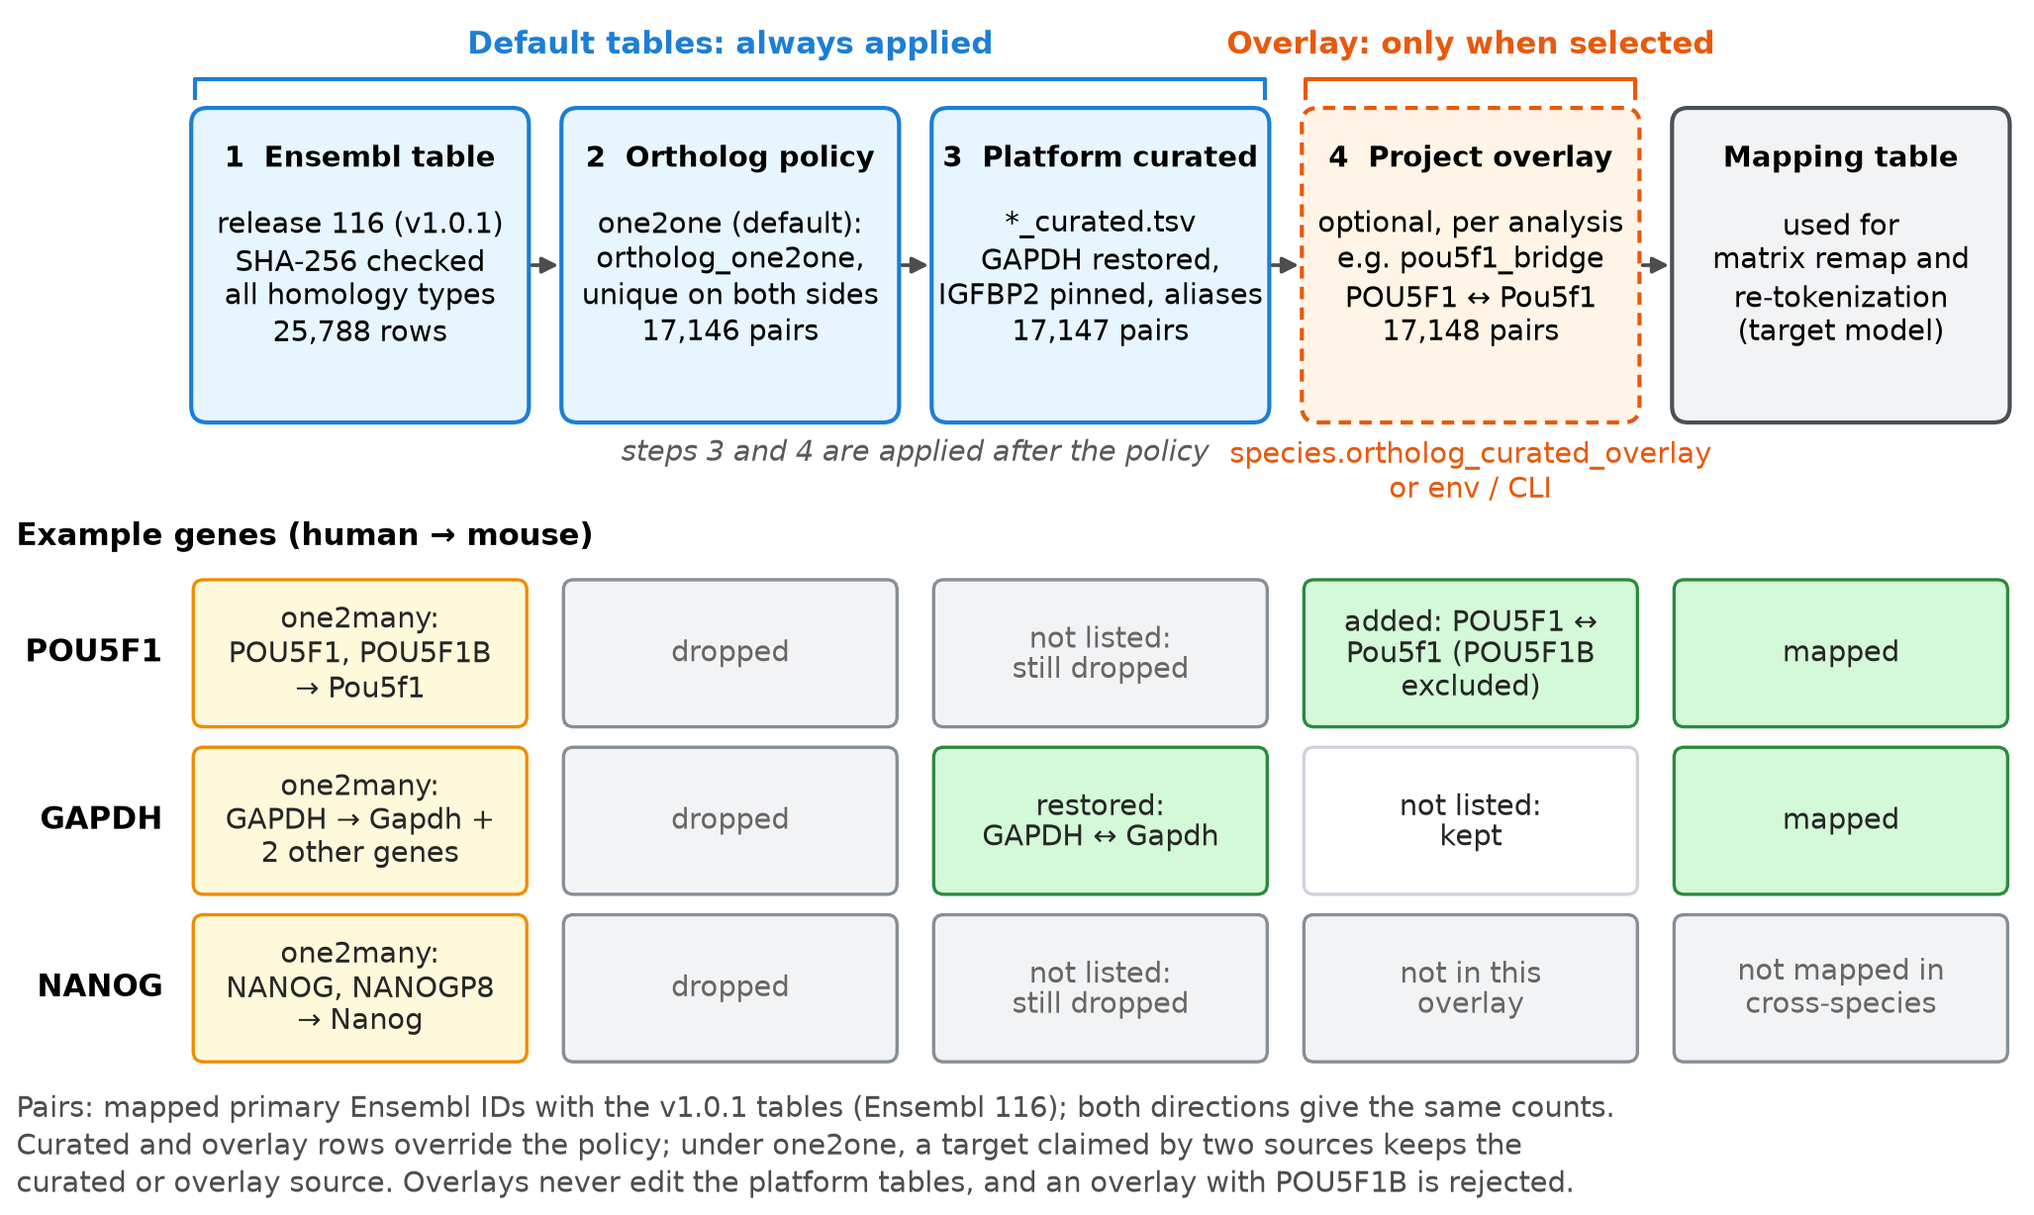
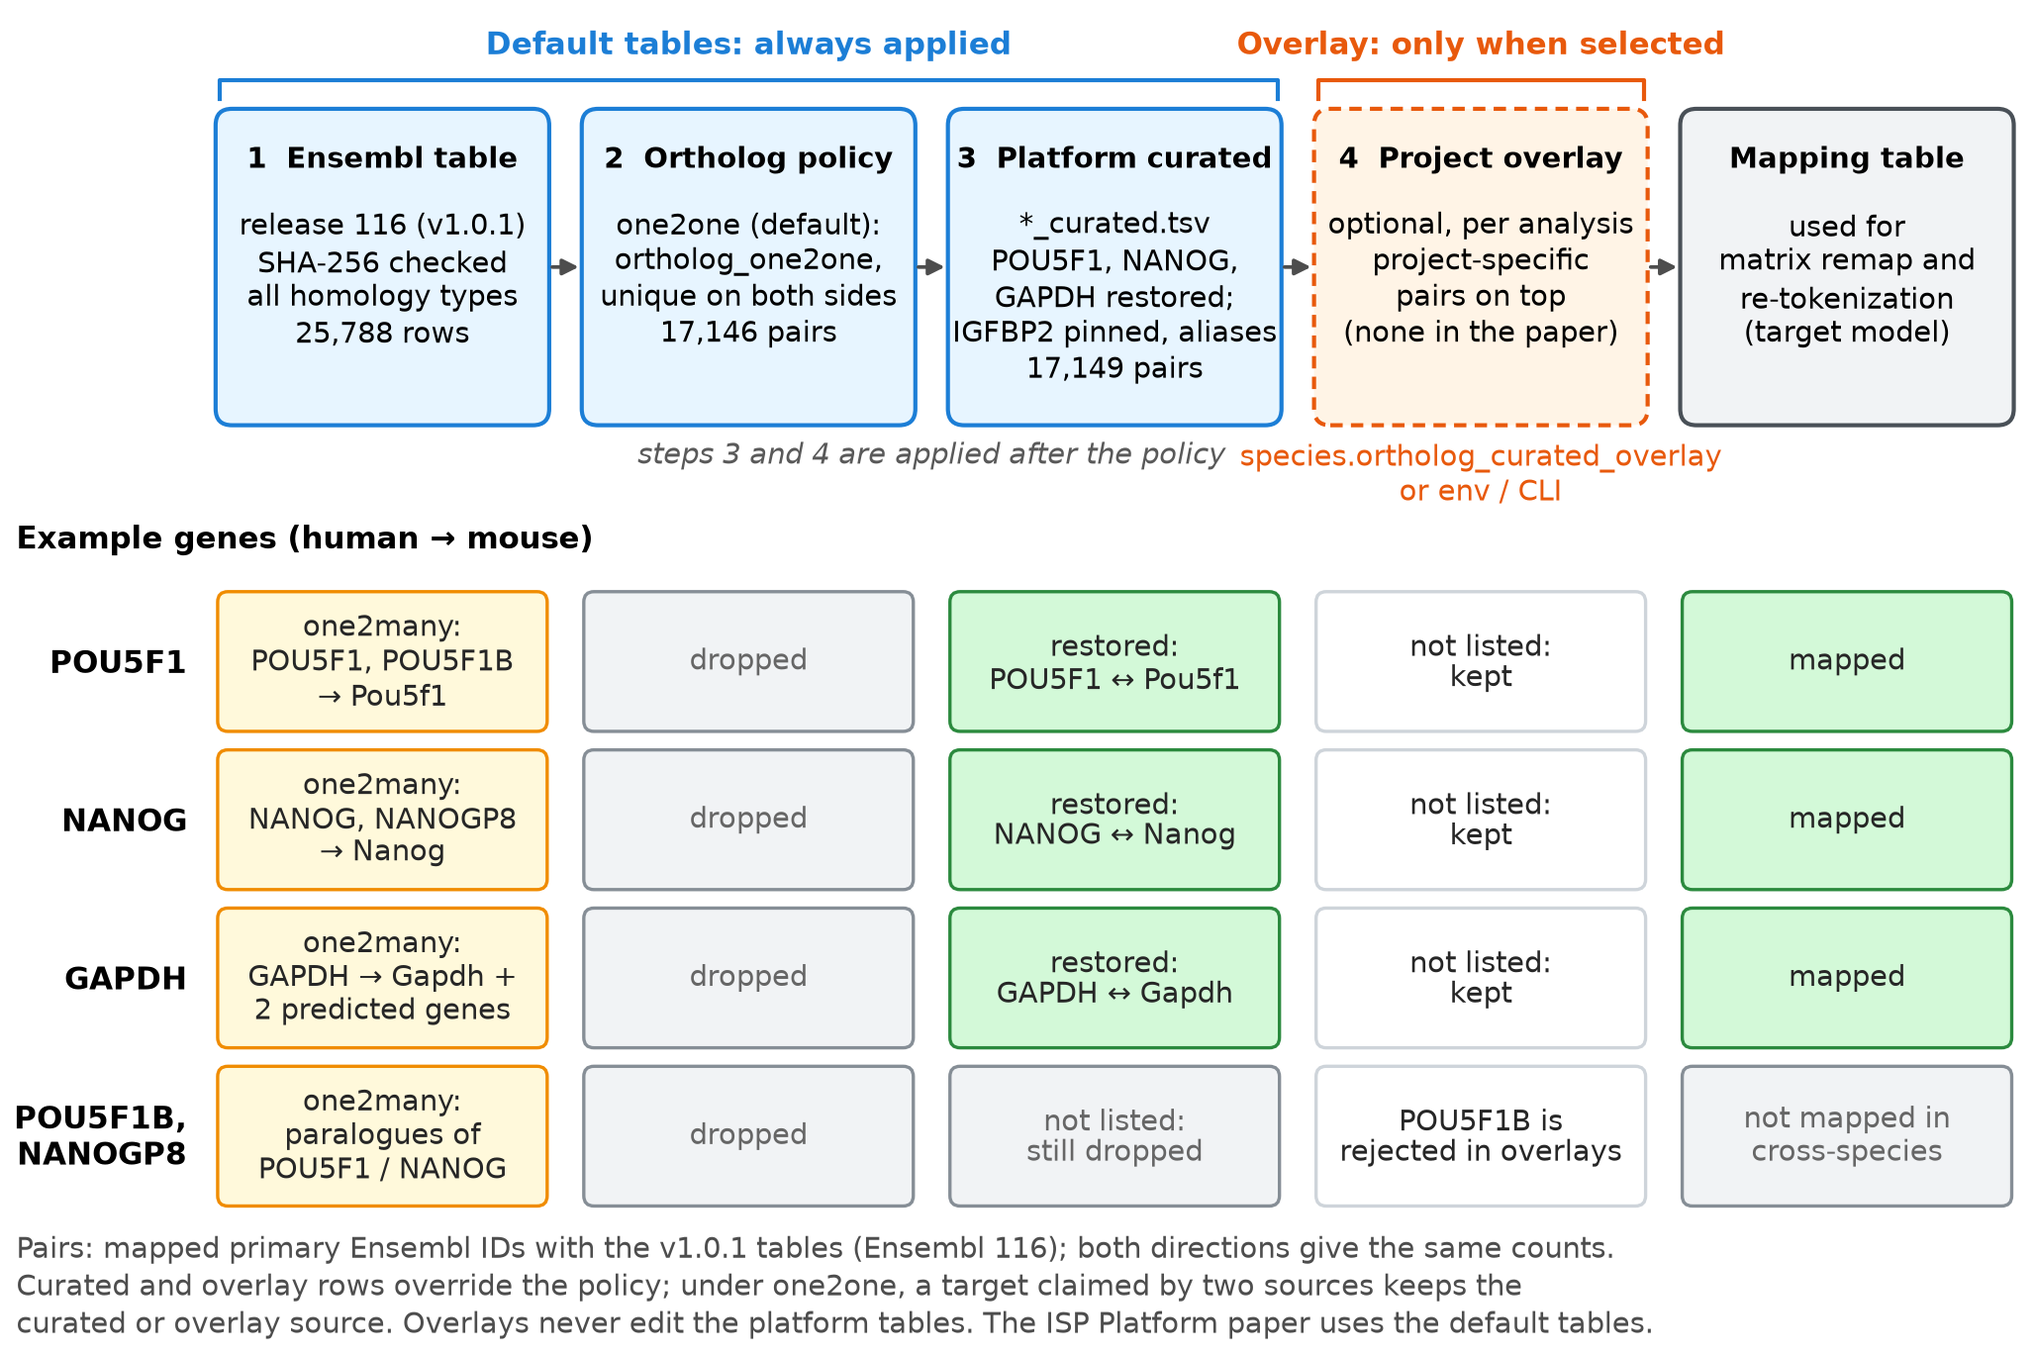
Curated ortholog tables restore POU5F1 and NANOG; drop the example overlay

Changed region(s): [[0.0, 0.4332, 0.9966, 0.9902], [0.0, 0.0, 0.9966, 0.4023]]

diff --git a/tests/test_ortholog_curated_overlay.py b/tests/test_ortholog_curated_overlay.py
@@ -60,8 +60,30 @@ gc = _load_gene_converter()
 POU5F1 = "ENSG00000204531"
 POU5F1B = "ENSG00000212993"
 POU5F1_MOUSE = "ENSMUSG00000024406"
+NANOG = "ENSG00000111704"
+NANOGP8 = "ENSG00000255192"
+NANOG_MOUSE = "ENSMUSG00000012396"
 ORTHOLOGS = ROOT / "core" / "geneformer" / "dicts" / "orthologs"
-EXAMPLE_POU5F1_BRIDGE = ROOT / "examples" / "ortholog_overlays" / "pou5f1_bridge"
+# The platform curated tables restore POU5F1 and NANOG; the overlay tests need a gene they drop.
+CURATED_PLURIPOTENCY_SOURCES = {
+    POU5F1, "POU5F1", NANOG, "NANOG",
+    POU5F1_MOUSE, "Pou5f1", NANOG_MOUSE, "Nanog",
+}
+
+
+def orthologs_without_curated_pluripotency(dest: Path) -> Path:
+    """Platform ortholog dir with the POU5F1 / NANOG rows removed from ``*_curated.tsv``."""
+    for src in ORTHOLOGS.iterdir():
+        if not src.is_file():
+            continue
+        out = dest / src.name
+        if src.name.endswith("_curated.tsv"):
+            lines = src.read_text(encoding="utf-8").splitlines(keepends=True)
+            kept = [ln for ln in lines if ln.split("\t", 1)[0] not in CURATED_PLURIPOTENCY_SOURCES]
+            out.write_text("".join(kept), encoding="utf-8")
+        else:
+            out.symlink_to(src)
+    return dest
 
 
 @unittest.skipUnless(
@@ -72,8 +94,13 @@ class TestCuratedOverlay(unittest.TestCase):
     def setUp(self):
         gc._TABLE_CACHE.clear()
         self._prev_env = os.environ.pop("GENEFORMER_ORTHOLOG_CURATED_OVERLAY", None)
+        self._orthologs_tmp = tempfile.TemporaryDirectory()
+        self._prev_dir = gc.ORTHOLOGS_DIR
+        gc.ORTHOLOGS_DIR = orthologs_without_curated_pluripotency(Path(self._orthologs_tmp.name))
 
     def tearDown(self):
+        gc.ORTHOLOGS_DIR = self._prev_dir
+        self._orthologs_tmp.cleanup()
         gc._TABLE_CACHE.clear()
         if self._prev_env is None:
             os.environ.pop("GENEFORMER_ORTHOLOG_CURATED_OVERLAY", None)
@@ -130,25 +157,6 @@ class TestCuratedOverlay(unittest.TestCase):
             self.assertEqual(h2m[POU5F1], POU5F1_MOUSE)
             self.assertEqual(m2h[POU5F1_MOUSE], POU5F1)
 
-    def test_example_pou5f1_bridge_maps_both_directions_only(self):
-        h2m_base = gc.load_ortholog_table(gc.ConversionPair.HUMAN_TO_MOUSE, policy="one2one")
-        m2h_base = gc.load_ortholog_table(gc.ConversionPair.MOUSE_TO_HUMAN, policy="one2one")
-        h2m = gc.load_ortholog_table(
-            gc.ConversionPair.HUMAN_TO_MOUSE,
-            policy="one2one",
-            curated_overlay=EXAMPLE_POU5F1_BRIDGE,
-        )
-        m2h = gc.load_ortholog_table(
-            gc.ConversionPair.MOUSE_TO_HUMAN,
-            policy="one2one",
-            curated_overlay=EXAMPLE_POU5F1_BRIDGE,
-        )
-        self.assertEqual(h2m[POU5F1], POU5F1_MOUSE)
-        self.assertEqual(m2h[POU5F1_MOUSE], POU5F1)
-        self.assertNotIn(POU5F1B, h2m)
-        self.assertEqual(set(h2m) - set(h2m_base), {POU5F1})
-        self.assertEqual(set(m2h) - set(m2h_base), {POU5F1_MOUSE})
-
     def test_env_overlay(self):
         with tempfile.TemporaryDirectory() as tmp:
             overlay = Path(tmp) / "curated_bridge_human_to_mouse.tsv"
@@ -174,6 +182,56 @@ class TestCuratedOverlay(unittest.TestCase):
             }
         )
         self.assertEqual(parsed["ortholog_curated_overlay"], "/tmp/policy_v1")
+
+
+@unittest.skipUnless(
+    (ORTHOLOGS / "human_to_mouse.tsv").is_file(),
+    "production ortholog TSV missing",
+)
+class TestDefaultCuratedPluripotency(unittest.TestCase):
+    """POU5F1 and NANOG are one2many in Ensembl; the platform curated tables pair them 1:1."""
+
+    def setUp(self):
+        gc._TABLE_CACHE.clear()
+        self._prev_env = os.environ.pop("GENEFORMER_ORTHOLOG_CURATED_OVERLAY", None)
+
+    def tearDown(self):
+        gc._TABLE_CACHE.clear()
+        if self._prev_env is not None:
+            os.environ["GENEFORMER_ORTHOLOG_CURATED_OVERLAY"] = self._prev_env
+
+    def test_one2one_maps_pou5f1_and_nanog_both_directions(self):
+        h2m = gc.load_ortholog_table(gc.ConversionPair.HUMAN_TO_MOUSE, policy="one2one")
+        m2h = gc.load_ortholog_table(gc.ConversionPair.MOUSE_TO_HUMAN, policy="one2one")
+        self.assertEqual(h2m[POU5F1], POU5F1_MOUSE)
+        self.assertEqual(h2m[NANOG], NANOG_MOUSE)
+        self.assertEqual(m2h[POU5F1_MOUSE], POU5F1)
+        self.assertEqual(m2h[NANOG_MOUSE], NANOG)
+
+    def test_paralogues_stay_unmapped(self):
+        h2m = gc.load_ortholog_table(gc.ConversionPair.HUMAN_TO_MOUSE, policy="one2one")
+        self.assertNotIn(POU5F1B, h2m)
+        self.assertNotIn(NANOGP8, h2m)
+
+    def test_curated_rows_add_only_these_genes(self):
+        h2m = gc.load_ortholog_table(gc.ConversionPair.HUMAN_TO_MOUSE, policy="one2one")
+        m2h = gc.load_ortholog_table(gc.ConversionPair.MOUSE_TO_HUMAN, policy="one2one")
+        with tempfile.TemporaryDirectory() as tmp:
+            gc._TABLE_CACHE.clear()
+            stripped = orthologs_without_curated_pluripotency(Path(tmp))
+            h2m_base = gc.load_ortholog_table(
+                gc.ConversionPair.HUMAN_TO_MOUSE, policy="one2one", orthologs_dir=stripped
+            )
+            m2h_base = gc.load_ortholog_table(
+                gc.ConversionPair.MOUSE_TO_HUMAN, policy="one2one", orthologs_dir=stripped
+            )
+        self.assertEqual(
+            {k for k in set(h2m) - set(h2m_base) if k.startswith("ENS")}, {POU5F1, NANOG}
+        )
+        self.assertEqual(
+            {k for k in set(m2h) - set(m2h_base) if k.startswith("ENS")},
+            {POU5F1_MOUSE, NANOG_MOUSE},
+        )
 
 
 if __name__ == "__main__":

diff --git a/tests/test_ortholog_loss_gate.py b/tests/test_ortholog_loss_gate.py
@@ -90,6 +90,26 @@ KLF4 = "ENSG00000136826"
 MYC = "ENSG00000136997"
 POU5F1_MOUSE = "ENSMUSG00000024406"
 ORTHOLOGS = ROOT / "core" / "geneformer" / "dicts" / "orthologs"
+# The platform curated tables restore POU5F1 and NANOG; the gate tests need a lost critical gene.
+CURATED_PLURIPOTENCY_SOURCES = {
+    POU5F1, "POU5F1", "ENSG00000111704", "NANOG",
+    POU5F1_MOUSE, "Pou5f1", "ENSMUSG00000012396", "Nanog",
+}
+
+
+def orthologs_without_curated_pluripotency(dest: Path) -> Path:
+    """Platform ortholog dir with the POU5F1 / NANOG rows removed from ``*_curated.tsv``."""
+    for src in ORTHOLOGS.iterdir():
+        if not src.is_file():
+            continue
+        out = dest / src.name
+        if src.name.endswith("_curated.tsv"):
+            lines = src.read_text(encoding="utf-8").splitlines(keepends=True)
+            kept = [ln for ln in lines if ln.split("\t", 1)[0] not in CURATED_PLURIPOTENCY_SOURCES]
+            out.write_text("".join(kept), encoding="utf-8")
+        else:
+            out.symlink_to(src)
+    return dest
 PROJECT_OVERLAY = ROOT / "analysis" / "ortholog_policy" / "v1"
 
 AUDIT = {
@@ -158,8 +178,14 @@ class TestOrthologLossGate(unittest.TestCase):
     def setUp(self):
         gc._TABLE_CACHE.clear()
         self._prev_env = os.environ.pop("GENEFORMER_ORTHOLOG_CURATED_OVERLAY", None)
+        self._orthologs_tmp = tempfile.TemporaryDirectory()
+        orthologs = orthologs_without_curated_pluripotency(Path(self._orthologs_tmp.name))
+        self._prev_dirs = (gc.ORTHOLOGS_DIR, gate.ORTHOLOGS_DIR)
+        gc.ORTHOLOGS_DIR = gate.ORTHOLOGS_DIR = orthologs
 
     def tearDown(self):
+        gc.ORTHOLOGS_DIR, gate.ORTHOLOGS_DIR = self._prev_dirs
+        self._orthologs_tmp.cleanup()
         gc._TABLE_CACHE.clear()
         if self._prev_env is None:
             os.environ.pop("GENEFORMER_ORTHOLOG_CURATED_OVERLAY", None)

diff --git a/core/geneformer/dicts/orthologs/README.md b/core/geneformer/dicts/orthologs/README.md
@@ -55,6 +55,8 @@ When `orthology_type` is present in the TSV, `one2one` prefers rows labeled `ort
 
 **Gapdh / GAPDH:** curated keeps `ENSMUSG00000057666` ↔ `ENSG00000111640`. Without it, one2one drops mouse Gapdh (collision with `Gm*` rows) and human→mouse can resolve to `Gm10358`.
 
+**POU5F1 / NANOG:** curated keeps `ENSG00000204531` ↔ `ENSMUSG00000024406` (POU5F1 ↔ Pou5f1) and `ENSG00000111704` ↔ `ENSMUSG00000012396` (NANOG ↔ Nanog), both directions. Ensembl labels both pairs `ortholog_one2many` because of the human paralogues POU5F1B (`ENSG00000212993`) and NANOGP8 (`ENSG00000255192`), so one2one would drop these core pluripotency factors. The paralogues are not curated and stay unmapped.
+
 **Curated Ensembl overrides:** only add an Ensembl→Ensembl row when BioMart is wrong for that gene. Symbol aliases (e.g. `Tp53` / `Trp53` / `Brca2` / `Gapdh`) are fine; they must point at the correct target IDs and must not remap unrelated genes (e.g. Lypla1 / Maoa / Gnai3).
 
 ## Default tables and overlays
@@ -65,20 +67,21 @@ When `orthology_type` is present in the TSV, `one2one` prefers rows labeled `ort
 
 1. **Ensembl table** (`human_to_mouse.tsv` / `mouse_to_human.tsv`): downloaded from the current Ensembl BioMart release; all homology types.
 2. **Ortholog policy** (`species.ortholog_policy`, default `one2one`): ambiguous one-to-many / many-to-one rows are dropped.
-3. **Platform curated table** (`*_curated.tsv`): always applied; restores or pins specific pairs (GAPDH, IGFBP2) and adds symbol aliases.
+3. **Platform curated table** (`*_curated.tsv`): always applied; restores POU5F1, NANOG and GAPDH, pins IGFBP2 and adds symbol aliases.
 4. **Project overlay** (optional): applied only when `species.ortholog_curated_overlay` (or env / CLI) is set.
 
 Steps 1–3 are the **default tables**: they are applied to every cross-species run. Steps 3 and 4 run after the policy, so their rows survive `one2one`; when two sources claim the same target, the curated or overlay source is kept. An overlay never edits the platform files.
 
-| Gene (human → mouse) | Ensembl | After `one2one` | After platform curated | After `pou5f1_bridge` overlay |
-|------|---------|-----------------|------------------------|-------------------------------|
-| POU5F1 | one2many (POU5F1, POU5F1B → Pou5f1) | dropped | dropped | mapped |
-| GAPDH | one2many (GAPDH → Gapdh + 2 other genes) | dropped | mapped | mapped |
-| NANOG | one2many (NANOG, NANOGP8 → Nanog) | dropped | dropped | dropped |
+| Gene (human → mouse) | Ensembl | After `one2one` | After platform curated |
+|------|---------|-----------------|------------------------|
+| POU5F1 | one2many (POU5F1, POU5F1B → Pou5f1) | dropped | mapped |
+| NANOG | one2many (NANOG, NANOGP8 → Nanog) | dropped | mapped |
+| GAPDH | one2many (GAPDH → Gapdh + 2 predicted genes) | dropped | mapped |
+| POU5F1B, NANOGP8 | one2many (paralogues) | dropped | dropped |
 
-These tables are used only when the input species differs from the model species. Same-species runs do not convert genes and keep NANOG; it is not mapped in cross-species runs.
+These tables are used only when the input species differs from the model species; same-species runs do not convert genes.
 
-The counts in the diagram are for the Ensembl 116 tables pinned in v1.0.1 (each direction: 25,788 rows → 17,146 one2one pairs → 17,147 after the platform curated table → 17,148 with `pou5f1_bridge`); other releases give different counts.
+The counts in the diagram are for the Ensembl 116 tables pinned in v1.0.1 (each direction: 25,788 rows → 17,146 one2one pairs → 17,149 after the platform curated table); other releases give different counts. The ISP Platform paper uses these default tables without an overlay.
 
 ## Project curated overlays (analysis-scoped)
 
@@ -92,10 +95,8 @@ Platform `*_curated.tsv` files stay global. Analysis projects may add an **expli
 
 If the path is a **directory**, the loader picks `curated_bridge_{pair}.tsv` (e.g. `curated_bridge_human_to_mouse.tsv`). Overlay rows are merged **after** the platform curated TSV. Prefer Ensembl ID→ID rows for reproducibility.
 
-**Example overlay:** `examples/ortholog_overlays/pou5f1_bridge/` is the POU5F1 ↔ Pou5f1 bridge (`ENSG00000204531` ↔ `ENSMUSG00000024406`, both directions; paralog POU5F1B `ENSG00000212993` excluded) used for the cross-species runs of the ISP Platform paper. Ensembl labels the pair `ortholog_one2many`, so `one2one` drops POU5F1 without it. To reproduce that conversion, set `species.ortholog_curated_overlay: /app/examples/ortholog_overlays/pou5f1_bridge` (Docker) or the repository path.
-
 ## Ortholog loss gate
 
-Tokenize can run `ortholog_loss_gate` when `tokenizer.ortholog_audit` is set. **Block** = critical gene **present in input** but dropped by policy (e.g. POU5F1 one2many under one2one). Absent-from-input criticals are **Warn** only. The gate does **not** auto-write overlay / curated rows — use an explicit overlay + approval choice **B**.
+Tokenize can run `ortholog_loss_gate` when `tokenizer.ortholog_audit` is set. **Block** = critical gene **present in input** but dropped by policy (a one2many gene that the platform curated table does not restore). Absent-from-input criticals are **Warn** only. The gate does **not** auto-write overlay / curated rows — use an explicit overlay + approval choice **B**.
 
 Operator docs: [docs/tokenization.md](../../../../docs/tokenization.md#ortholog-loss-gate).

diff --git a/CHANGELOG.md b/CHANGELOG.md
@@ -8,14 +8,11 @@ Format follows [Keep a Changelog](https://keepachangelog.com/en/1.1.0/).
 
 ### Changed
 
-- Pred L2 mean bar charts use an L-frame (no top/right spines), outward axis ticks, light horizontal y-grid, and a Mouse→Mouse / Mouse→Human Geneformer panel label in the title.
-- ISP UMAP scatter fonts match the pred L2 mean bar scale (seaborn talk-sized title/labels/ticks/legend).
-- ISP analysis significant-gene figures (`significant_genes_lollipop.png`, `top_significant_genes_barplot.png`, `top_genes_barplot.png`) use larger gene fonts and a more compact canvas; the lollipop shows gene names and stems only (no per-point shift/N/FDR annotations).
+- **The platform curated ortholog tables now restore POU5F1 ↔ Pou5f1 and NANOG ↔ Nanog** (both directions). Ensembl labels both pairs one-to-many because of the human paralogues POU5F1B and NANOGP8, so `one2one` dropped these core pluripotency factors from every cross-species conversion. The paralogues stay unmapped. Cross-species runs therefore differ from earlier versions by these two genes; same-species runs are unchanged.
 
 ### Added
 
-- Example ortholog overlay `examples/ortholog_overlays/pou5f1_bridge/`: the POU5F1 ↔ Pou5f1 bridge (POU5F1B excluded) used for the paper's cross-species runs, byte-identical to the analysis overlay. Pass it as `species.ortholog_curated_overlay` to reproduce that conversion; the default tables are unchanged, so `one2one` still drops POU5F1 without it.
-- Diagram of how the default ortholog tables and a project overlay combine (`docs/ortholog_tables_and_overlay.png`), with the load order and POU5F1 / GAPDH / NANOG as examples, in the ortholog README and `docs/tokenization.md`.
+- Diagram of how the default ortholog tables and a project overlay combine (`docs/ortholog_tables_and_overlay.png`), with the load order and POU5F1 / NANOG / GAPDH as examples, in the ortholog README and `docs/tokenization.md`.
 
 ## [1.3.1] - 2026-09-22
 

diff --git a/docs/web-ui.md b/docs/web-ui.md
@@ -112,12 +112,12 @@ There is **no free-form gene-ID field** in the UI. Project bridges use a curated
 2. Keep **one2one**. Expect lower gene retention than mouse↔human; use the conversion report before interpreting ISP.
 3. Fly input is **Beta**: smoke / pipeline paths exist, but results are **not** biologically validated — do not treat as production-ready.
 
-**D — OSKM / POU5F1 Block → approve curated bridge**
+**D — Critical gene Block → approve curated bridge**
 
 Requires an analysis contract that enables the gate (e.g. `analysis/analysis_manifest.yaml` → `ortholog_audit`). Typical path:
 
 1. Cross-species run as in **B** (or human→mouse / mouse→human as your study needs), with audit wired so `ortholog_loss_gate` runs.
-2. If a critical gene is **present in the matrix** but dropped by `one2one` (classic: human **POU5F1**), tokenize **exits non-zero** and writes `ortholog_approval_request.yaml` (`status: pending`).
+2. If a critical gene is **present in the matrix** but dropped by `one2one` (a one-to-many gene that the platform curated table does not restore; POU5F1 and NANOG are restored by default), tokenize **exits non-zero** and writes `ortholog_approval_request.yaml` (`status: pending`).
 3. Scroll to **Outputs** → card **Ortholog mapping — approval required** (see next section).
 4. Fill **Approved by** / **Reason**, choose **Approve curated bridge**, **Record decision**.
 5. UI writes `approval_record.yaml` and starts a **new** Pipeline with approval + overlay (default overlay dir `analysis/ortholog_policy/v1` when present).

diff --git a/docs/tokenization.md b/docs/tokenization.md
@@ -122,7 +122,7 @@ Optional **project curated overlays** (do not edit platform `*_curated.tsv`): se
 
 ![Default ortholog tables and project overlay](ortholog_tables_and_overlay.png)
 
-The default tables (Ensembl table → `ortholog_policy` → platform `*_curated.tsv`) are applied to every cross-species run. A project overlay is added on top only when it is selected; it can restore a pair that the policy drops but never edits the platform tables. Example: [`examples/ortholog_overlays/pou5f1_bridge/`](../examples/ortholog_overlays/pou5f1_bridge/) restores POU5F1 ↔ Pou5f1, which `one2one` drops because Ensembl labels it one-to-many. Details: [ortholog README](../core/geneformer/dicts/orthologs/README.md#default-tables-and-overlays).
+The default tables (Ensembl table → `ortholog_policy` → platform `*_curated.tsv`) are applied to every cross-species run. The platform curated table restores POU5F1, NANOG and GAPDH, which Ensembl labels one-to-many (human paralogues POU5F1B and NANOGP8, mouse predicted genes) and `one2one` would otherwise drop. A project overlay is added on top only when it is selected; it can restore further pairs but never edits the platform tables. Details: [ortholog README](../core/geneformer/dicts/orthologs/README.md#default-tables-and-overlays).
 
 Ortholog tables: `core/geneformer/dicts/orthologs/` (download via `scripts/download_mouse_human_orthologs.sh` and `scripts/download_drosophila_orthologs.sh`). Fly remapping typically keeps ~50% of protein-coding genes; mouse↔human is ~92%.
 
